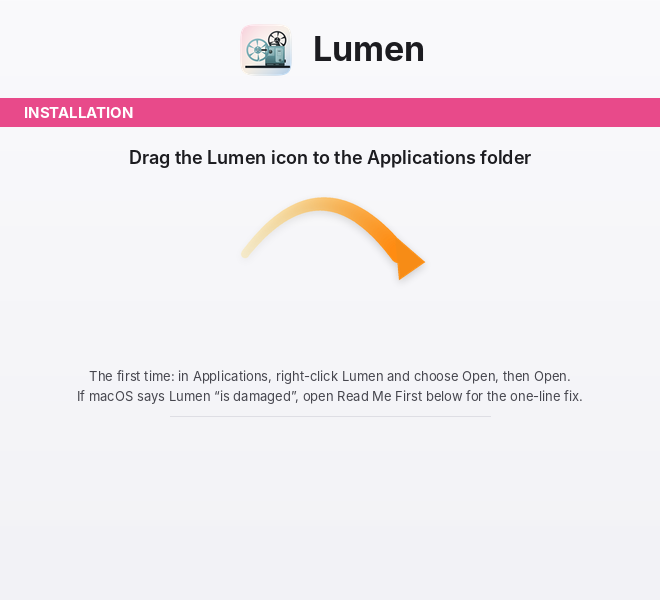
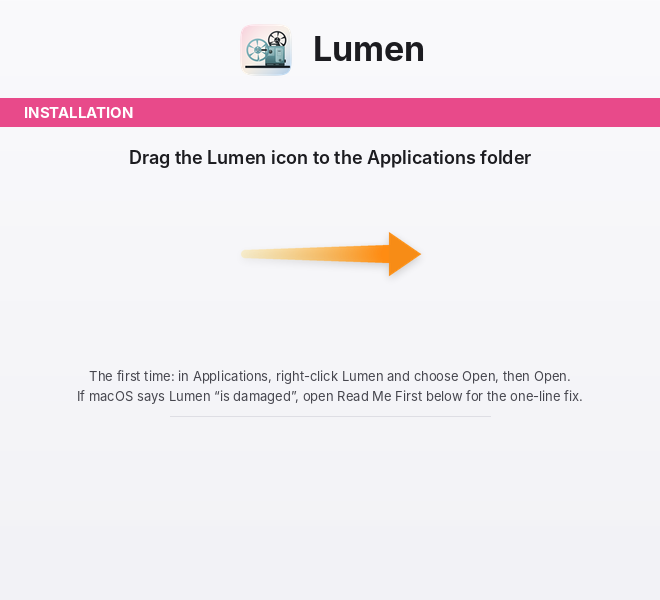
Mac disk image: straight arrow to Applications
Claude-Session: https://claude.ai/code/session_01C7yZKzBbPvYbP9U5AbReBT

Changed region(s): [[0.3636, 0.33, 0.6364, 0.48]]

diff --git a/scripts/dmg-background.py b/scripts/dmg-background.py
@@ -53,22 +53,21 @@ def main() -> None:
 
     centred(d, 146, "Drag the Lumen icon to the Applications folder", font("SemiBold", 18), (28, 28, 32))
 
-    # A curved arrow from Lumen to Applications, yellow to orange, with a soft shadow. Drawn four
+    # A straight arrow from Lumen to Applications, yellow to orange, with a soft shadow. Drawn four
     # times larger and scaled down, so its edges are smooth.
     k = 4
     arrow = Image.new("RGBA", (W * k, H * k), (0, 0, 0, 0))
     a = ImageDraw.Draw(arrow)
-    (x1, y1), (x2, y2) = (APP[0] + 80, APP[1] - 8), (APPS[0] - 96, APPS[1] - 8)
+    x1, x2, y = APP[0] + 80, APPS[0] - 104, APP[1] - 8
     steps = 400
     for i in range(steps + 1):
         t = i / steps
         x = (x1 + (x2 - x1) * t) * k
-        y = (y1 - 50 * 4 * t * (1 - t)) * k  # a shallow arc above the straight line
         r = (4 + 5 * t) * k
-        a.ellipse([x - r, y - r, x + r, y + r], fill=(255, int(216 - 76 * t), int(90 - 72 * t), int(70 + 185 * t)))
-    # The head, pointing along the end of the arc (slightly down, to the right).
-    hx, hy = x2 * k, y1 * k
-    a.polygon([(hx + 26 * k, hy + 8 * k), (hx - 4 * k, hy - 18 * k), (hx, hy + 26 * k)], fill=(247, 140, 22, 255))
+        a.ellipse([x - r, y * k - r, x + r, y * k + r], fill=(255, int(216 - 76 * t), int(90 - 72 * t), int(70 + 185 * t)))
+    # The head, pointing right.
+    hx, hy = x2 * k, y * k
+    a.polygon([(hx + 30 * k, hy), (hx - 2 * k, hy - 22 * k), (hx - 2 * k, hy + 22 * k)], fill=(247, 140, 22, 255))
     arrow = arrow.resize((W, H), Image.LANCZOS)
     shadow = arrow.getchannel("A").filter(ImageFilter.GaussianBlur(4)).point(lambda v: v // 6)
     img.paste((0, 0, 0), (0, 3), shadow)
